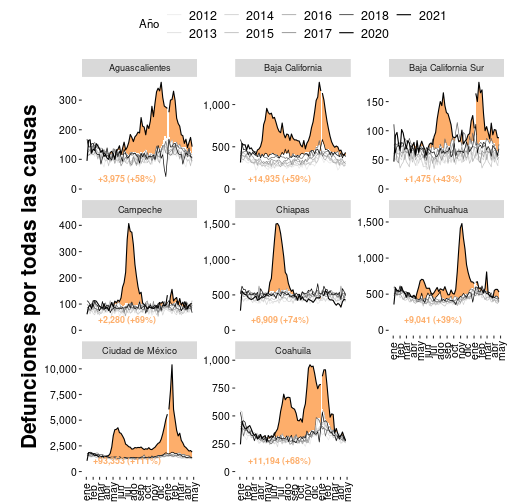
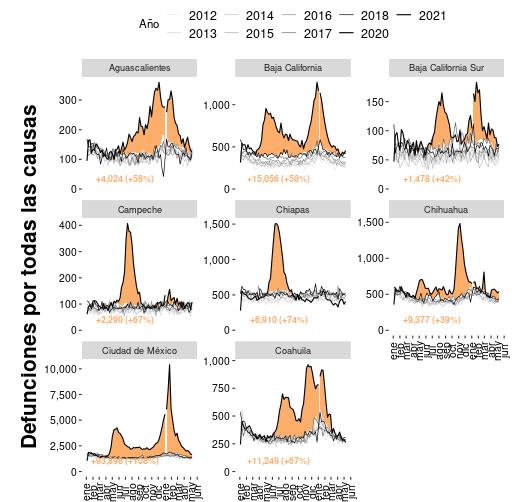
Actualización 2021-06-15

diff --git a/content/muertes/exceso_mortalidad_nacional.md b/content/muertes/exceso_mortalidad_nacional.md
@@ -11,8 +11,8 @@ son diagnosticadas. En
 <a href="https://www.economist.com/graphic-detail/2020/07/15/tracking-covid-19-excess-deaths-across-countries">países</a>
 se ha observado que la pandemia provoca un <i>exceso de mortalidad</i>.</p>
 
-<p>En México, desde el inicio de la pandemia y hasta el 24 de abril de 2021
-se han registrado <b>62% más defunciones</b> que en el mismo periodo de años
+<p>En México, desde el inicio de la pandemia y hasta el 8 de mayo de 2021
+se han registrado <b>63% más defunciones</b> que en el mismo periodo de años
 previos.
 Estos números son preliminares ya que el catálogo nacional de defunciones
 tarda dos años en finalizarse.</p>

diff --git a/content/muertes/exceso_mortalidad_estados2.md b/content/muertes/exceso_mortalidad_estados2.md
@@ -8,7 +8,7 @@ medir el costo humano en cada entidad.</p>
 
 <p>Estas gráficas muestran el
 <a href="#exceso_mortalidad_nacional"><i>exceso de mortalidad</i></a>
-hasta el 24 de abril de 2021 para 8 de las 32 entidades federativas del país.
+hasta el 8 de mayo de 2021 para 8 de las 32 entidades federativas del país.
 La región con color indica las semanas con <i>exceso de mortalidad</i>.
 Se indica el número absoluto de exceso de mortalidad para canda entidad y el
 incremento porcentual. Las entidades federativas están organizadas

diff --git a/content/muertes/exceso_mortalidad_estados3.md b/content/muertes/exceso_mortalidad_estados3.md
@@ -8,7 +8,7 @@ medir el costo humano en cada entidad.</p>
 
 <p>Estas gráficas muestran el
 <a href="#exceso_mortalidad_nacional"><i>exceso de mortalidad</i></a>
-hasta el 24 de abril de 2021 para 8 de las 32 entidades federativas del país.
+hasta el 8 de mayo de 2021 para 8 de las 32 entidades federativas del país.
 La región con color indica las semanas con <i>exceso de mortalidad</i>.
 Se indica el número absoluto de exceso de mortalidad para canda entidad y el
 incremento porcentual. Las entidades federativas están organizadas

diff --git a/content/muertes/exceso_mortalidad_estados4.md b/content/muertes/exceso_mortalidad_estados4.md
@@ -8,7 +8,7 @@ medir el costo humano en cada entidad.</p>
 
 <p>Estas gráficas muestran el
 <a href="#exceso_mortalidad_nacional"><i>exceso de mortalidad</i></a>
-hasta el 24 de abril de 2021 para 8 de las 32 entidades federativas del país.
+hasta el 8 de mayo de 2021 para 8 de las 32 entidades federativas del país.
 La región con color indica las semanas con <i>exceso de mortalidad</i>.
 Se indica el número absoluto de exceso de mortalidad para canda entidad y el
 incremento porcentual. Las entidades federativas están organizadas

diff --git a/content/muertes/exceso_mortalidad_estados1.md b/content/muertes/exceso_mortalidad_estados1.md
@@ -8,7 +8,7 @@ medir el costo humano en cada entidad.</p>
 
 <p>Estas gráficas muestran el
 <a href="#exceso_mortalidad_nacional"><i>exceso de mortalidad</i></a>
-hasta el 24 de abril para 8 de las 32 entidades federativas del país.
+hasta el 8 de mayo para 8 de las 32 entidades federativas del país.
 La región con color indica las semanas con <i>exceso de mortalidad</i>.
 Se indica el número absoluto de exceso de mortalidad para canda entidad y el
 incremento porcentual. Las entidades federativas están organizadas
